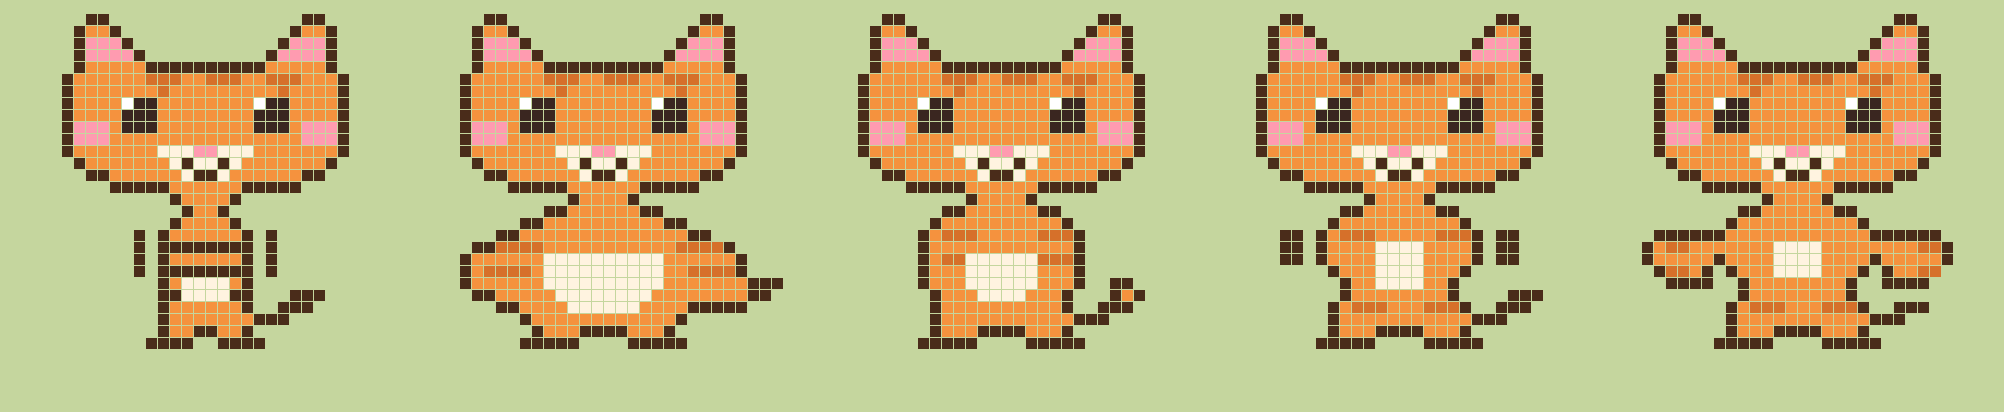
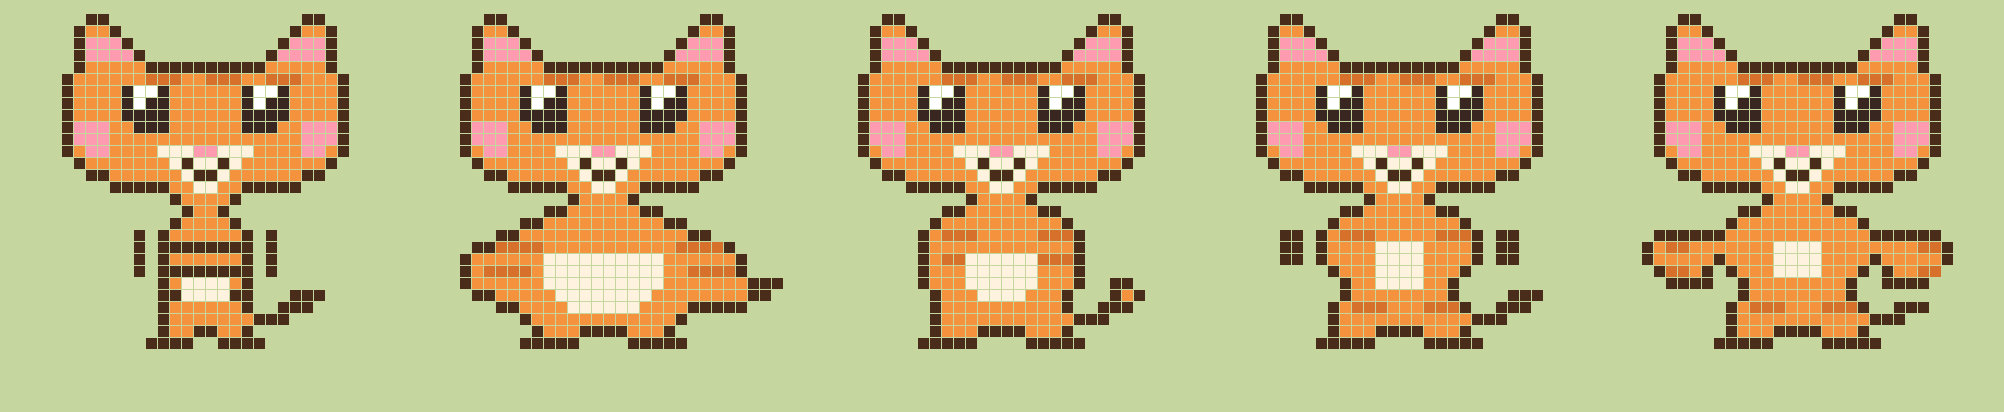
Monta el huevo real y mejora los michis en pixel art
El huevo de Alberto sustituye al aparato dibujado: la pantalla es un
hueco transparente, así que las coordenadas se detectan del propio PNG
en vez de codificarlas a mano (497 KB -> 49 KB).

Michis con ojos más grandes y un solo brillo. Se corrige el centrado:
la animación de respiración definía su propio transform y anulaba el
translateX que los centraba.

Añade recortar_hoja.py para trocear hojas de personaje ilustradas.

diff --git a/pixel/michis.js b/pixel/michis.js
@@ -27,15 +27,15 @@ export const MICHIS = {
     '.....orrrro..........orrrro.....',
     '.....onnnnnoooooooooonnnnno.....',
     '....onnnnnnNNNnnNNNnnNNNnnno....',
-    '....onnnnnnnNnnnnnnnnnNnnnno....',
-    '....onnnnwkknnnnnnnnwkknnnno....',
-    '....onnnnkkknnnnnnnnkkknnnno....',
-    '....orrrnkkknnnnnnnnkkknrrro....',
+    '....onnnnkwwknnnnnnkwwknnnno....',
+    '....onnnnkwkknnnnnnkwkknnnno....',
+    '....onnnnkkkknnnnnnkkkknnnno....',
+    '....orrrnnkkknnnnnnkkknnrrro....',
     '....orrrnnnnnnnnnnnnnnnnrrro....',
-    '....onnnnnnncccrrcccnnnnnnno....',
+    '....onrrnnnncccrrcccnnnnrrno....',
     '.....onnnnnnncoccocnnnnnnno.....',
     '......oonnnnnncoocnnnnnnoo......',
-    '........ooooonnnnnnooooo........',
+    '........ooooonnccnnooooo........',
     '.............onnnno.............',
     '..............onno..............',
     '.............onnnno.............',
@@ -61,15 +61,15 @@ export const MICHIS = {
     '.....orrrro..........orrrro.....',
     '.....onnnnnoooooooooonnnnno.....',
     '....onnnnnnNNNnnNNNnnNNNnnno....',
-    '....onnnnnnnNnnnnnnnnnNnnnno....',
-    '....onnnnwkknnnnnnnnwkknnnno....',
-    '....onnnnkkknnnnnnnnkkknnnno....',
-    '....orrrnkkknnnnnnnnkkknrrro....',
+    '....onnnnkwwknnnnnnkwwknnnno....',
+    '....onnnnkwkknnnnnnkwkknnnno....',
+    '....onnnnkkkknnnnnnkkkknnnno....',
+    '....orrrnnkkknnnnnnkkknnrrro....',
     '....orrrnnnnnnnnnnnnnnnnrrro....',
-    '....onnnnnnncccrrcccnnnnnnno....',
+    '....onrrnnnncccrrcccnnnnrrno....',
     '.....onnnnnnncoccocnnnnnnno.....',
     '......oonnnnnncoocnnnnnnoo......',
-    '........ooooonnnnnnooooo........',
+    '........ooooonnccnnooooo........',
     '.............onnnno.............',
     '...........oonnnnnnoo...........',
     '.........oonnnnnnnnnnoo.........',
@@ -95,15 +95,15 @@ export const MICHIS = {
     '.....orrrro..........orrrro.....',
     '.....onnnnnoooooooooonnnnno.....',
     '....onnnnnnNNNnnNNNnnNNNnnno....',
-    '....onnnnnnnNnnnnnnnnnNnnnno....',
-    '....onnnnwkknnnnnnnnwkknnnno....',
-    '....onnnnkkknnnnnnnnkkknnnno....',
-    '....orrrnkkknnnnnnnnkkknrrro....',
+    '....onnnnkwwknnnnnnkwwknnnno....',
+    '....onnnnkwkknnnnnnkwkknnnno....',
+    '....onnnnkkkknnnnnnkkkknnnno....',
+    '....orrrnnkkknnnnnnkkknnrrro....',
     '....orrrnnnnnnnnnnnnnnnnrrro....',
-    '....onnnnnnncccrrcccnnnnnnno....',
+    '....onrrnnnncccrrcccnnnnrrno....',
     '.....onnnnnnncoccocnnnnnnno.....',
     '......oonnnnnncoocnnnnnnoo......',
-    '........ooooonnnnnnooooo........',
+    '........ooooonnccnnooooo........',
     '.............onnnno.............',
     '...........oonnnnnnoo...........',
     '..........onnnnnnnnnno..........',
@@ -129,15 +129,15 @@ export const MICHIS = {
     '.....orrrro..........orrrro.....',
     '.....onnnnnoooooooooonnnnno.....',
     '....onnnnnnNNNnnNNNnnNNNnnno....',
-    '....onnnnnnnNnnnnnnnnnNnnnno....',
-    '....onnnnwkknnnnnnnnwkknnnno....',
-    '....onnnnkkknnnnnnnnkkknnnno....',
-    '....orrrnkkknnnnnnnnkkknrrro....',
+    '....onnnnkwwknnnnnnkwwknnnno....',
+    '....onnnnkwkknnnnnnkwkknnnno....',
+    '....onnnnkkkknnnnnnkkkknnnno....',
+    '....orrrnnkkknnnnnnkkknnrrro....',
     '....orrrnnnnnnnnnnnnnnnnrrro....',
-    '....onnnnnnncccrrcccnnnnnnno....',
+    '....onrrnnnncccrrcccnnnnrrno....',
     '.....onnnnnnncoccocnnnnnnno.....',
     '......oonnnnnncoocnnnnnnoo......',
-    '........ooooonnnnnnooooo........',
+    '........ooooonnccnnooooo........',
     '.............onnnno.............',
     '...........oonnnnnnoo...........',
     '..........onnnnnnnnnno..........',
@@ -163,15 +163,15 @@ export const MICHIS = {
     '.....orrrro..........orrrro.....',
     '.....onnnnnoooooooooonnnnno.....',
     '....onnnnnnNNNnnNNNnnNNNnnno....',
-    '....onnnnnnnNnnnnnnnnnNnnnno....',
-    '....onnnnwkknnnnnnnnwkknnnno....',
-    '....onnnnkkknnnnnnnnkkknnnno....',
-    '....orrrnkkknnnnnnnnkkknrrro....',
+    '....onnnnkwwknnnnnnkwwknnnno....',
+    '....onnnnkwkknnnnnnkwkknnnno....',
+    '....onnnnkkkknnnnnnkkkknnnno....',
+    '....orrrnnkkknnnnnnkkknnrrro....',
     '....orrrnnnnnnnnnnnnnnnnrrro....',
-    '....onnnnnnncccrrcccnnnnnnno....',
+    '....onrrnnnncccrrcccnnnnrrno....',
     '.....onnnnnnncoccocnnnnnnno.....',
     '......oonnnnnncoocnnnnnnoo......',
-    '........ooooonnnnnnooooo........',
+    '........ooooonnccnnooooo........',
     '.............onnnno.............',
     '...........oonnnnnnoo...........',
     '..........onnnnnnnnnno..........',

diff --git a/src/mascota/tamagotchi.css b/src/mascota/tamagotchi.css
@@ -51,18 +51,20 @@
   position: absolute;
   display: flex; flex-direction: column;
   overflow: hidden;
-  /* La pantalla la pinta la app, no el PNG: así el michi, los iconos
-     y la barra se pueden mover sin volver a dibujar la carcasa. */
-  background: #BFD2E8;
-  border-radius: 4%;
+  /* El hueco del PNG ya es transparente y con su propio marco, así que
+     aquí solo va el cristal de color. */
+  background: #C9DCEF;
+  border-radius: 6%;
 }
 .mf-tamapng-iconos {
-  height: 10%; display: flex; align-items: center; justify-content: space-around;
-  background: #EFE3B0; font-size: 11px; line-height: 1;
+  height: 13%; display: flex; align-items: center; justify-content: space-around;
+  font-size: 10px; line-height: 1;
 }
 .mf-tamapng-zona { position: absolute; left: 0; right: 0; }
 .mf-tamapng-michi {
-  position: absolute; bottom: 2%; left: 50%; transform: translateX(-50%);
+  /* Centrado con márgenes, NO con transform: la animación de respiración
+     define su propio transform y borraría el translateX. */
+  position: absolute; bottom: 2%; left: 0; right: 0; margin: 0 auto;
   height: 88%; width: auto;
   /* Sin suavizado: es pixel art, tiene que verse duro */
   image-rendering: pixelated;
@@ -70,15 +72,11 @@
 }
 .mf-tamapng.dormido .mf-tamapng-michi { animation: mf-tama-dormita 4s steps(2, end) infinite; }
 .mf-tamapng-barra {
-  position: absolute; top: 5%; right: 6%; width: 48%; height: 7%;
+  position: absolute; top: -11%; right: 6%; width: 46%; height: 6%;
   background: #fff; border: 1px solid #7C8CA0; border-radius: 2px; overflow: hidden;
 }
 .mf-tamapng-barra i { display: block; height: 100%; background: #F2650F; transition: width .4s ease; }
-.mf-tamapng-pie {
-  margin-top: auto; height: 12%; background: #F2650F; color: #FFF6EC;
-  font-family: 'Baloo 2', cursive; font-weight: 800; font-size: 13px;
-  display: grid; place-items: center; letter-spacing: 1px;
-}
+
 /* Cuando la carcasa es el SVG dibujado, ocupa el mismo hueco que el PNG */
 .mf-tamapng-huevo > .mf-tama { width: 100%; height: 100%; }
 .mf-tamapng-pantalla { pointer-events: none; }

diff --git a/src/mascota/TamagotchiPNG.jsx b/src/mascota/TamagotchiPNG.jsx
@@ -14,19 +14,15 @@ import { useState } from 'react';
 import Tamagotchi from './Tamagotchi.jsx';
 import './tamagotchi.css';
 
-/* Geometría, en porcentaje de la carcasa. Sale del componente SVG
-   (viewBox 220x300): la pantalla ocupa x 46..174, y 66..228. */
-const PANTALLA = {
-  left: (46 / 220) * 100,
-  top: (66 / 300) * 100,
-  width: (128 / 220) * 100,
-  height: (162 / 300) * 100,
-};
-/* Zona útil del michi: la pantalla menos la banda de iconos y la del pie. */
-const ZONA = {
-  top: (16 / 162) * 100,
-  height: ((162 - 16 - 19) / 162) * 100,
-};
+/* Geometría medida sobre el PNG del huevo (660x900): el hueco de la
+   pantalla es transparente, así que se detecta solo. Si cambias el
+   dibujo, vuelve a medirlo con pixel/medir_huevo.py. */
+const PANTALLA = { left: 23.79, top: 29.78, width: 52.58, height: 43.89 };
+
+/* Zona útil del michi dentro de la pantalla: se deja aire arriba para la
+   barra de puntos. El aparato de Alberto no tiene bandas dibujadas, así
+   que la pantalla es toda del michi. */
+const ZONA = { top: 14, height: 84 };
 
 const RUTA = '/michi';
 
@@ -44,7 +40,7 @@ export default function TamagotchiPNG({
   /* Cadena de respaldo: si no existe la imagen del estado exacto, se usa
      el michi base; si tampoco, se dibuja el aparato en SVG. Así se pueden
      ir subiendo las imágenes de una en una sin que nada se rompa. */
-  const candidatos = [`${RUTA}/${estado}.png`, `${RUTA}/bebe_paseando.png`];
+  const candidatos = [`${RUTA}/${estado}.png`, `${RUTA}/kawaii.png`];
   const src = candidatos[intento];
 
   /* Dos respaldos independientes. Si falta la carcasa se dibuja en SVG,
@@ -90,7 +86,6 @@ export default function TamagotchiPNG({
           )}
         </div>
 
-        {!sinHuevo && <div className="mf-tamapng-pie">FIT</div>}
       </div>
     </div>
   );

diff --git a/pixel/recortar_hoja.py b/pixel/recortar_hoja.py
@@ -1,0 +1,143 @@
+"""
+Recorta una hoja de personaje en los PNG que usa la app.
+
+Pensado para las hojas generadas con IA: varios michis en una imagen,
+con su etiqueta debajo. Al venir todos de una sola generación son
+consistentes entre sí, que es lo que no se consigue generándolos de
+uno en uno.
+
+Qué hace:
+  1. quita el fondo blanco
+  2. busca las manchas grandes de color (los gatos) e ignora las
+     pequeñas (el texto de las etiquetas)
+  3. las ordena de arriba a abajo y de izquierda a derecha
+  4. recorta, cuadra apoyando al michi abajo y comprime
+
+Uso:
+  python recortar_hoja.py ../IMG/cuerpos.png
+
+Si el orden no coincide, cambia ORDEN: es la lista de qué estado va en
+cada posición, y `None` para saltarse uno.
+"""
+
+import os
+import sys
+from PIL import Image
+
+# Posición en la hoja -> nombre de archivo. None se descarta.
+ORDEN = [
+    "esqueletico",     # muy delgado
+    "gordo",           # gordito
+    "kawaii",          # normal
+    None,              # (repetido / etiqueta con errata)
+    "fit",             # atlético
+    "hipertrofiado",   # muy musculado
+]
+
+LADO = 320
+MIN_AREA = 0.012   # una mancha menor que esto (en % del total) es texto
+
+
+def sin_fondo(im, umbral=238):
+    im = im.convert("RGBA")
+    px = im.load()
+    for y in range(im.height):
+        for x in range(im.width):
+            r, g, b, a = px[x, y]
+            if r > umbral and g > umbral and b > umbral:
+                px[x, y] = (r, g, b, 0)
+    return im
+
+
+def manchas(im):
+    """Componentes conexas por barrido de filas, sin recursión."""
+    w, h = im.size
+    a = im.getchannel("A").load()
+    visto = [[False] * w for _ in range(h)]
+    cajas = []
+    for y0 in range(h):
+        for x0 in range(w):
+            if visto[y0][x0] or a[x0, y0] < 40:
+                continue
+            pila = [(x0, y0)]
+            visto[y0][x0] = True
+            xi = xf = x0
+            yi = yf = y0
+            n = 0
+            while pila:
+                x, y = pila.pop()
+                n += 1
+                xi, xf = min(xi, x), max(xf, x)
+                yi, yf = min(yi, y), max(yf, y)
+                for dx, dy in ((1, 0), (-1, 0), (0, 1), (0, -1)):
+                    nx, ny = x + dx, y + dy
+                    if 0 <= nx < w and 0 <= ny < h and not visto[ny][nx] and a[nx, ny] >= 40:
+                        visto[ny][nx] = True
+                        pila.append((nx, ny))
+            cajas.append(((xi, yi, xf + 1, yf + 1), n))
+    return cajas
+
+
+def agrupar_en_filas(cajas, tolerancia=0.25):
+    """Ordena arriba-abajo, izquierda-derecha, tolerando desalineos."""
+    if not cajas:
+        return []
+    alto = max(c[3] - c[1] for c in cajas)
+    filas = []
+    for caja in sorted(cajas, key=lambda c: c[1]):
+        for fila in filas:
+            if abs(caja[1] - fila[0][1]) < alto * tolerancia * 2:
+                fila.append(caja)
+                break
+        else:
+            filas.append([caja])
+    return [c for fila in filas for c in sorted(fila, key=lambda c: c[0])]
+
+
+def encuadrar(im, lado=LADO):
+    escala = min(lado / im.width, lado / im.height) * 0.96
+    im = im.resize((max(1, int(im.width * escala)), max(1, int(im.height * escala))),
+                   Image.LANCZOS)
+    lienzo = Image.new("RGBA", (lado, lado), (0, 0, 0, 0))
+    lienzo.paste(im, ((lado - im.width) // 2, lado - im.height), im)
+    return lienzo
+
+
+def comprimir(im, ruta, colores=96):
+    alfa = im.getchannel("A")
+    q = im.convert("RGB").quantize(colors=colores, method=Image.MEDIANCUT).convert("RGBA")
+    q.putalpha(alfa)
+    q.quantize(colors=colores).save(ruta, optimize=True)
+
+
+def main(origen):
+    aqui = os.path.dirname(os.path.abspath(__file__))
+    destino = os.path.join(aqui, "..", "public", "michi")
+    os.makedirs(destino, exist_ok=True)
+
+    hoja = sin_fondo(Image.open(origen))
+    total = hoja.width * hoja.height
+    grandes = [c for c, n in manchas(hoja) if n > total * MIN_AREA]
+    grandes = agrupar_en_filas(grandes)
+
+    print(f"encontradas {len(grandes)} figuras grandes (se esperaban {len(ORDEN)})")
+    if len(grandes) != len(ORDEN):
+        print("!! el número no cuadra. Revisa MIN_AREA o el ORDEN.")
+
+    for caja, nombre in zip(grandes, ORDEN):
+        if nombre is None:
+            continue
+        trozo = hoja.crop(caja)
+        recorte = trozo.getbbox()
+        if recorte:
+            trozo = trozo.crop(recorte)
+        ruta = os.path.join(destino, f"{nombre}.png")
+        comprimir(encuadrar(trozo), ruta)
+        print(f"  {nombre:16} {os.path.getsize(ruta)//1024:3} KB")
+
+
+if __name__ == "__main__":
+    if len(sys.argv) < 2:
+        print(__doc__)
+        sys.exit(1)
+    main(sys.argv[1])

diff --git a/pixel/generar_michis.py b/pixel/generar_michis.py
@@ -109,12 +109,14 @@ CUERPOS = {
 # --- cara: identica en los cinco ---
 OREJA_INTERIOR = [(2, 6, 8), (3, 6, 9), (2, 23, 25), (3, 22, 25)]
 RAYAS_FRENTE = [(5, 11, 13), (5, 16, 18), (5, 21, 23), (6, 12, 12), (6, 22, 22)]
-HOCICO = [(11, 12, 19), (12, 13, 18), (13, 14, 17)]
-OJOS = [(7, 9, 11), (8, 9, 11), (9, 9, 11), (7, 20, 22), (8, 20, 22), (9, 20, 22)]
-BRILLO = [(7, 9, 9), (7, 20, 20)]
+HOCICO = [(11, 12, 19), (12, 13, 18), (13, 14, 17), (14, 15, 16)]
+OJOS = [(6, 9, 12), (7, 9, 12), (8, 9, 12), (9, 10, 12),
+        (6, 19, 22), (7, 19, 22), (8, 19, 22), (9, 19, 21)]
+BRILLO = [(6, 10, 11), (7, 10, 10), (6, 20, 21), (7, 20, 20)]
 NARIZ = [(11, 15, 16)]
 BOCA = [(12, 14, 14), (12, 17, 17), (13, 15, 16)]
-MOFLETES = [(9, 5, 7), (10, 5, 7), (9, 24, 26), (10, 24, 26)]
+MOFLETES = [(9, 5, 7), (10, 5, 7), (11, 6, 7),
+            (9, 24, 26), (10, 24, 26), (11, 24, 25)]
 
 
 def pintar(g, bandas, char):
@@ -228,4 +230,23 @@ if __name__ == "__main__":
     hoja.save("michi-hoja.png")
 
     exportar_js()
+
+    # PNG a 320 px para la app, con vecino mas proximo: los bordes del
+    # pixel tienen que quedar duros, no suavizados.
+    import os
+    destino = os.path.join(os.path.dirname(os.path.abspath(__file__)),
+                           "..", "public", "michi")
+    os.makedirs(destino, exist_ok=True)
+    for nombre in ORDEN:
+        g = construir(nombre)
+        im = Image.new("RGBA", (W, H), (0, 0, 0, 0))
+        px = im.load()
+        for y in range(H):
+            for x in range(W):
+                col = PALETA[g[y][x]]
+                if col is not None:
+                    px[x, y] = (*col, 255)
+        im = im.resize((320, 320), Image.NEAREST)
+        im.save(os.path.join(destino, f"{nombre}.png"), optimize=True)
+
     print("generados:", ", ".join(ORDEN))
